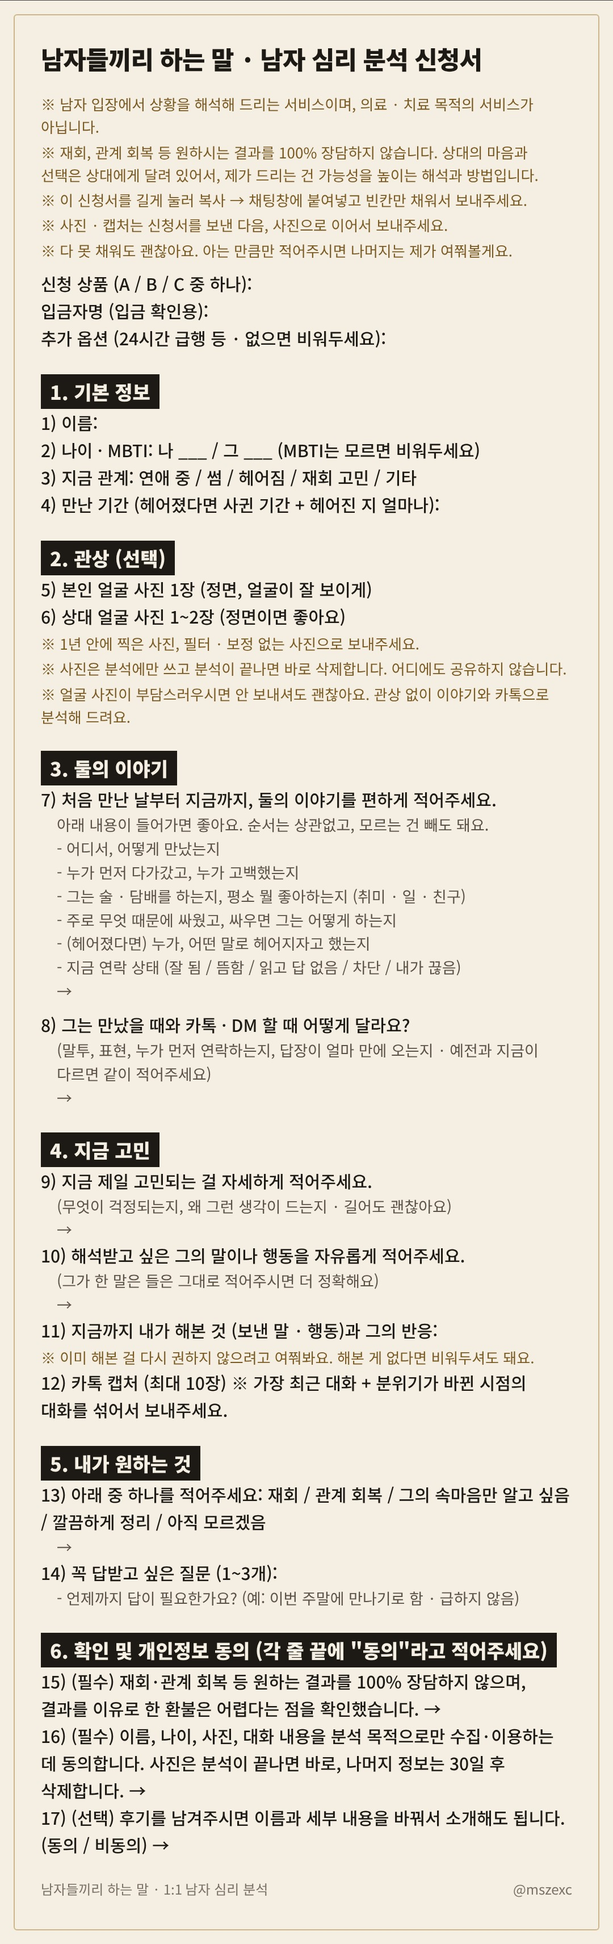
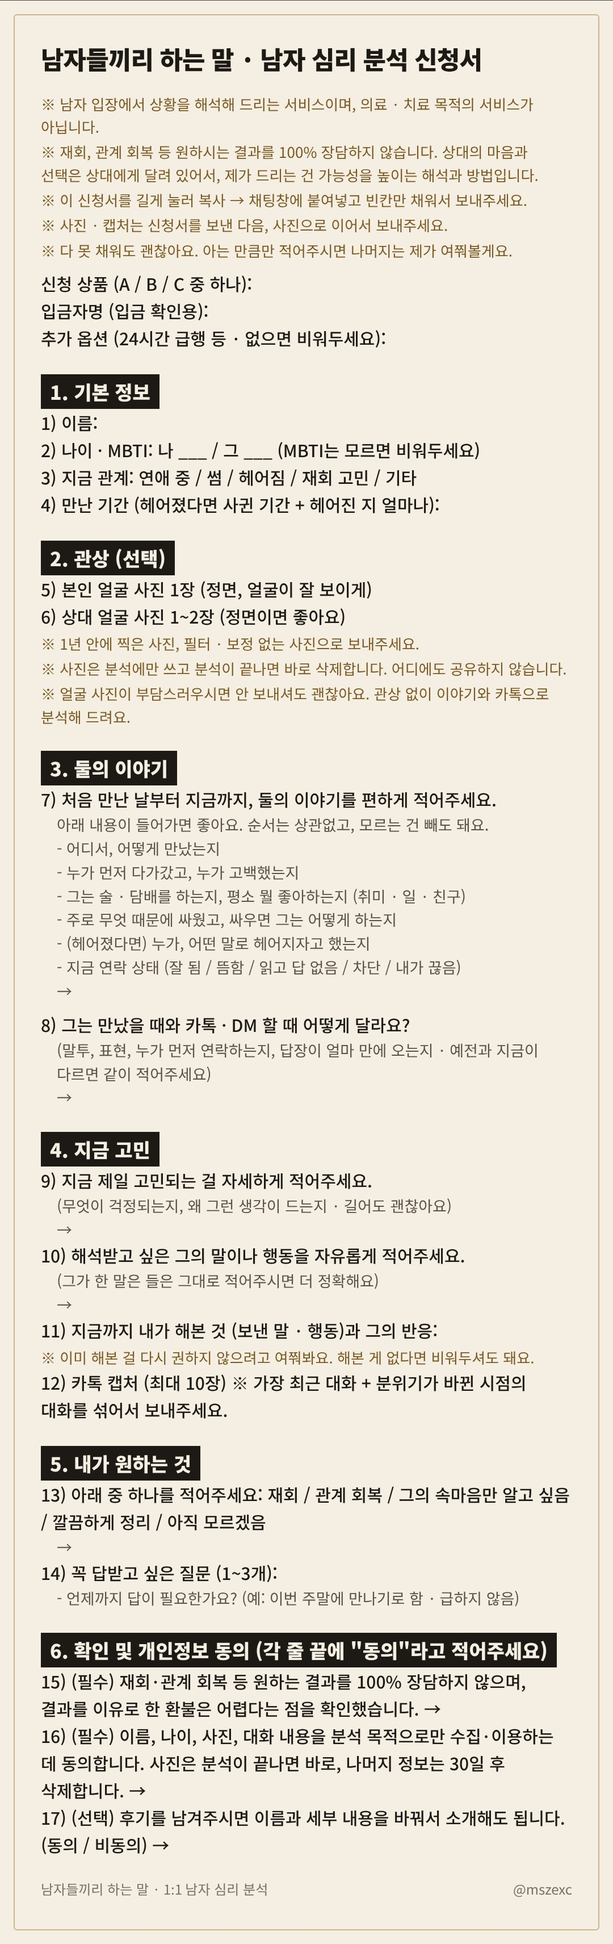
Consult guide: cleaner line breaks, price lines; phone prices prominent in guide and menu image
Claude-Session: https://claude.ai/code/session_01J9i5yL8MFhQ5W67Sx3nDW6

Changed region(s): [[0.1222, 0.5884, 0.2444, 0.6193], [0.3361, 0.5884, 0.3667, 0.6193]]

diff --git a/consult/kakao_menu/docs.html b/consult/kakao_menu/docs.html
@@ -15,6 +15,9 @@
   .doc:before { content:''; position:absolute; inset:24px; border:2px solid #cdb68a; border-radius:6px; pointer-events:none; }
   .doc .ttl { font-size:44px; font-weight:900; letter-spacing:-0.02em; margin-bottom:10px; }
   .doc .sec { font-size:34px; font-weight:900; margin-top:26px; padding:6px 16px; background:#1d1a16; color:#f4eee3; display:inline-block; }
+  .doc .pri { font-size:34px; font-weight:900; margin-top:10px; color:#151515; background:#ffcb3d; display:table; padding:2px 12px; }
+  .doc .pri + .pri { margin-left:0; }
+  .doc .hr { height:2px; background:#d9d2c4; margin:26px 0 6px; }
   .doc .ln { font-size:30px; line-height:1.6; font-weight:500; }
   .doc .li { font-size:30px; line-height:1.6; padding-left:28px; position:relative; }
   .doc .li:before { content:''; position:absolute; left:4px; top:20px; width:10px; height:10px; background:#9a6a1f; }
@@ -26,7 +29,7 @@
 <section class="k" id="card_guide"><div class="top">남자가 직접, 그 사람 마음을 번역해 드려요</div><div class="ti">1:1 남자 심리 분석 안내</div><ul><li>오픈가 A 4.9만 · B 9.9만 ★ · C 39만 · 전화 4.9만~</li><li>관상 · 카톡 · 상황을 남자 입장에서</li><li>채팅으로 &quot;A · B · C 신청&quot; → 계좌이체</li></ul><div class="ft"><span>남자들끼리 하는 말 · 1:1 남자 심리 분석</span><span>@mszexc</span></div></section>
 <section class="k" id="card_form"><div class="top">입금 확인 후 보내드려요</div><div class="ti">신청서 · 이것만 준비하세요</div><ul><li>얼굴 사진 (나 1장 · 그 1~2장 · 부담되면 생략 OK)</li><li>둘의 이야기 + 그의 카톡 · 만날 때 모습</li><li>카톡 캡처 10장 · 꼭 답받고 싶은 질문</li></ul><div class="ft"><span>남자들끼리 하는 말 · 1:1 남자 심리 분석</span><span>@mszexc</span></div></section>
 <section class="k" id="card_report"><div class="top">72시간 안에 서면으로</div><div class="ti">결과물은 이렇게 드려요</div><ul><li>A · 성향 / 말 번역 / 마음 단계 / 갈등 이유</li><li>B · A + 상황별 대본 4종 + 피드백 2회</li><li>C · B + 4주 점검 · 첨삭 주 3건 · 정리 리포트</li></ul><div class="ft"><span>남자들끼리 하는 말 · 1:1 남자 심리 분석</span><span>@mszexc</span></div></section>
-<section class="doc" id="doc_guide"><div class="ttl">남자들끼리 하는 말 · 남자 심리 분석</div><div class="sp"></div><div class="ln">그 사람이 왜 그러는지, 이제 뭐라고 보내야 하는지.</div><div class="ln">남자가 직접, 그 사람의 마음을 번역해 드립니다.</div><div class="ln">관상 · 카톡 · 상황을 함께 보고, 남자 입장에서 답을 드려요.</div><div class="sp"></div><div class="sec">A. 남자 심리 분석 · 49,000원 (정가 69,000원 · 12/31까지 오픈가)</div><div class="ln">그가 왜 그러는지 알고 싶은 분</div><div class="li">질문지 + 카톡 캡처 10장 + 관상</div><div class="li">서면 분석 리포트 (그의 성향 / 말 번역 / 지금 마음 단계 / 갈등의 진짜 이유)</div><div class="li">추가 질문 1회 · 72시간 안에 전달</div><div class="sp"></div><div class="sec">B. 심리 분석 + 마음을 움직이는 대본 · 99,000원 (정가 129,000원 · 12/31까지 오픈가)  ★추천</div><div class="ln">&quot;그래서 뭐라고 보내야 해?&quot;까지 알고 싶은 분</div><div class="li">A의 모든 내용</div><div class="li">상황별 대본 4종 (첫 연락 / 답장 왔을 때 / 만났을 때 / 반응 없을 때)</div><div class="li">7일 안 피드백 2회 (1회 = 메시지 1개 + 캡처 3장)</div><div class="sp"></div><div class="sec">C. 재회·관계 회복 4주 플랜 · 390,000원 (정가 490,000원 · 12/31까지 오픈가)  (월 3명 한정)</div><div class="ln">끝까지 같이 가고 싶은 분</div><div class="li">B의 모든 내용</div><div class="li">4주 동안 주 1회 점검 + 다음 대본</div><div class="li">보내기 전 카톡 첨삭 주 3건 · 4주 뒤 정리 리포트</div><div class="sp"></div><div class="sec">T. 전화 분석 (예약제 · 주 5건)</div><div class="ln">글보다 목소리로, 지금 바로 묻고 싶은 분</div><div class="li">30분 · 정가 59,000원 → 49,000원 (12/31까지 오픈가)</div><div class="ln">지금 상황 하나 + 보낼 말 1개</div><div class="li">60분 · 정가 99,000원 → 89,000원 (12/31까지 오픈가)</div><div class="ln">상황 전체 + 그의 성향 · 마음 단계 + 보낼 말 3개</div><div class="li">통화 전: 사전 질문지 + 카톡 캡처 5장을 미리 보내주세요</div><div class="li">통화 뒤: 핵심 요약 3줄을 카톡으로 드려요 (녹음은 서로 하지 않아요)</div><div class="sp"></div><div class="sec">추가 옵션 (신청자 전용)</div><div class="li">카톡 첨삭 1건 20,000원 · 3건 묶음 50,000원</div><div class="li">추가 질문 1회 20,000원</div><div class="li">24시간 급행 +30,000원 (하루 1건)</div><div class="li">답장 왔을 때 긴급 첨삭 (6시간 안) 30,000원 (하루 1건)</div><div class="note">※ 기한은 채팅 가능 시간 안에서 세요. 급행은 신청서 · 사진 · 캡처가 다 도착한 때부터 24시간이에요.</div><div class="sp"></div><div class="sec">혜택</div><div class="li">오픈 첫 주 (11/8까지): B를 신청하신 첫 10분께 카톡 첨삭 2건을 함께 드려요.</div><div class="li">다시 신청하실 때: 결과물을 받고 30일 안에 다시 신청하시면 추가 질문 1회를 드려요.</div><div class="sp"></div><div class="sec">가격이 고민되신다면</div><div class="ln">월급 250만 원 기준으로 B(오픈가 9.9만 원)는 한 달 월급의 4%예요.</div><div class="ln">하루로 나누면 3,300원, 커피 한 잔 값이에요.</div><div class="sp"></div><div class="ln">이미 불안해서 여기까지 오셨잖아요.</div><div class="ln">돈 몇 푼 아끼다 그 사람과의 관계를 더 어렵게 만들 건지,</div><div class="ln">그 4%로 그의 마음을 읽고 다음 한 수를 준비할 건지.</div><div class="sp"></div><div class="ln">제가 드리는 건 남자를 이해하는 눈이에요.</div><div class="ln">남자를 알면, 그 사람을 대하는 게 훨씬 쉬워져요.</div><div class="ln">결과를 100% 장담할 수는 없지만, 관계가 좋아질 가능성은 분명히 높일 수 있어요.</div><div class="sp"></div><div class="ln">선택은 당신의 몫이에요.</div><div class="sp"></div><div class="sec">신청 방법 (3분이면 끝나요)</div><div class="ln">1) 채팅으로 &quot;B 신청&quot; · &quot;전화 30분 신청&quot;처럼 상품만 남겨주세요</div><div class="ln">2) 바로 입금 안내를 드려요 (계좌이체만 받아요 · 카드 결제는 안 돼요)</div><div class="ln">3) 입금되면 신청서를 보내드려요 → 채워서 사진 · 캡처와 보내주시면 분석 시작</div><div class="ln">4) 다 도착한 때부터 72시간 안에 결과물을 드려요</div><div class="sp"></div><div class="note">※ 남자 입장에서 상황을 해석해 드리는 서비스이며, 의료 · 치료 목적의 서비스가 아닙니다.</div><div class="note">※ 결과를 100% 장담하지는 않아요. 그의 선택은 그에게 달려 있어서, 제가 드리는 건 가능성을 높이는 해석과 방법이에요.</div><div class="note">※ 분석 시작 전에는 전액 환불, 시작 후에는 (결과를 이유로 한 경우도) 환불이 어려워요.</div><div class="note">※ 전화 분석: 일정 변경은 24시간 전까지 1회 · 연락 없이 불참하시면 환불이 어려워요 · 늦으시면 남은 시간만 진행해요.</div><div class="ft2"><span>남자들끼리 하는 말 · 1:1 남자 심리 분석</span><span>@mszexc</span></div></section>
+<section class="doc" id="doc_guide"><div class="ttl">남자들끼리 하는 말 · 남자 심리 분석</div><div class="sp"></div><div class="ln">그 사람이 왜 그러는지,</div><div class="ln">이제 뭐라고 보내야 하는지.</div><div class="sp"></div><div class="ln">남자가 직접, 그 사람의 마음을 번역해 드립니다.</div><div class="ln">관상 · 카톡 · 상황을 함께 보고,</div><div class="ln">남자 입장에서 답을 드려요.</div><div class="sp"></div><div class="pri">12/31까지 오픈가 · 1/1부터 정가</div><div class="sp"></div><div class="hr"></div><div class="sp"></div><div class="sec">A. 남자 심리 분석</div><div class="pri">49,000원 (정가 69,000원)</div><div class="ln">그가 왜 그러는지 알고 싶은 분</div><div class="li">질문지 + 카톡 캡처 10장 + 관상</div><div class="li">서면 분석 리포트</div><div class="sub">그의 성향 / 말 번역 / 지금 마음 단계 / 갈등의 진짜 이유</div><div class="li">추가 질문 1회</div><div class="li">72시간 안에 전달</div><div class="sp"></div><div class="sec">B. 심리 분석 + 마음을 움직이는 대본 ★추천</div><div class="pri">99,000원 (정가 129,000원)</div><div class="ln">&quot;그래서 뭐라고 보내야 해?&quot;까지 알고 싶은 분</div><div class="li">A의 모든 내용</div><div class="li">상황별 대본 4종</div><div class="sub">첫 연락 / 답장 왔을 때 / 만났을 때 / 반응 없을 때</div><div class="li">7일 안 피드백 2회</div><div class="sub">1회 = 메시지 1개 + 캡처 3장</div><div class="sp"></div><div class="sec">C. 재회 · 관계 회복 4주 플랜 (월 3명 한정)</div><div class="pri">390,000원 (정가 490,000원)</div><div class="ln">끝까지 같이 가고 싶은 분</div><div class="li">B의 모든 내용</div><div class="li">4주 동안 주 1회 점검 + 다음 대본</div><div class="li">보내기 전 카톡 첨삭 주 3건</div><div class="li">4주 뒤 정리 리포트</div><div class="sp"></div><div class="sec">T. 전화 분석 (예약제 · 주 5건)</div><div class="pri">30분 49,000원 (정가 59,000원)</div><div class="pri">60분 89,000원 (정가 99,000원)</div><div class="ln">글보다 목소리로, 지금 바로 묻고 싶은 분</div><div class="li">30분: 지금 상황 하나 + 보낼 말 1개</div><div class="li">60분: 상황 전체 + 그의 성향 · 마음 단계 + 보낼 말 3개</div><div class="li">통화 전: 사전 질문지 + 카톡 캡처 5장</div><div class="li">통화 뒤: 핵심 요약 3줄을 카톡으로</div><div class="sub">(녹음은 서로 하지 않아요)</div><div class="sp"></div><div class="hr"></div><div class="sp"></div><div class="sec">추가 옵션 (신청자 전용)</div><div class="li">카톡 첨삭 1건 20,000원</div><div class="li">카톡 첨삭 3건 묶음 50,000원</div><div class="li">추가 질문 1회 20,000원</div><div class="li">24시간 급행 +30,000원 (하루 1건)</div><div class="li">답장 왔을 때 긴급 첨삭 30,000원</div><div class="sub">6시간 안 · 하루 1건</div><div class="note">※ 기한은 채팅 가능 시간 안에서 세요.</div><div class="note">※ 급행은 신청서 · 사진 · 캡처가 다 도착한 때부터 24시간이에요.</div><div class="sp"></div><div class="sec">혜택</div><div class="li">B를 신청하신 선착순 10분께 카톡 첨삭 2건을 함께 드려요.</div><div class="li">다시 신청하실 때: 결과물을 받고 30일 안에 다시 신청하시면 추가 질문 1회를 드려요.</div><div class="sp"></div><div class="sec">가격이 고민되신다면</div><div class="ln">월급 250만 원 기준으로 B(오픈가 9.9만 원)는 한 달 월급의 4%예요.</div><div class="ln">하루로 나누면 3,300원, 커피 한 잔 값이에요.</div><div class="sp"></div><div class="ln">이미 불안해서 여기까지 오셨잖아요.</div><div class="ln">돈 몇 푼 아끼다 그 사람과의 관계를 더 어렵게 만들 건지,</div><div class="ln">그 4%로 그의 마음을 읽고 다음 한 수를 준비할 건지.</div><div class="sp"></div><div class="ln">제가 드리는 건 남자를 이해하는 눈이에요.</div><div class="ln">남자를 알면, 그 사람을 대하는 게 훨씬 쉬워져요.</div><div class="ln">결과를 100% 장담할 수는 없지만, 관계가 좋아질 가능성은 분명히 높일 수 있어요.</div><div class="sp"></div><div class="ln">선택은 당신의 몫이에요.</div><div class="sp"></div><div class="sec">신청 방법 (3분이면 끝나요)</div><div class="ln">1) 채팅으로 상품만 남겨주세요</div><div class="sub">예: &quot;B 신청&quot; · &quot;전화 30분 신청&quot;</div><div class="ln">2) 바로 입금 안내를 드려요</div><div class="sub">계좌이체만 받아요 (카드 결제는 안 돼요)</div><div class="ln">3) 입금되면 신청서를 보내드려요</div><div class="sub">채워서 사진 · 캡처와 함께 보내주시면 분석 시작</div><div class="ln">4) 다 도착한 때부터 72시간 안에 결과물을 드려요</div><div class="sub">(전화 분석은 예약한 시간에 제가 먼저 전화드려요)</div><div class="sp"></div><div class="note">※ 남자 입장에서 상황을 해석해 드리는 서비스이며, 의료 · 치료 목적의 서비스가 아닙니다.</div><div class="note">※ 결과를 100% 장담하지는 않아요.</div><div class="sub">그의 선택은 그에게 달려 있어서, 제가 드리는 건 가능성을 높이는 해석과 방법이에요.</div><div class="note">※ 분석 시작 전에는 전액 환불, 시작 후에는 환불이 어려워요.</div><div class="sub">(결과를 이유로 한 경우도 같아요)</div><div class="note">※ 전화 분석</div><div class="sub">일정 변경은 24시간 전까지 1회</div><div class="sub">연락 없이 불참하시면 환불이 어려워요</div><div class="sub">늦으시면 남은 시간만 진행해요</div><div class="ft2"><span>남자들끼리 하는 말 · 1:1 남자 심리 분석</span><span>@mszexc</span></div></section>
 <section class="doc" id="doc_form"><div class="ttl">남자들끼리 하는 말 · 남자 심리 분석 신청서</div><div class="sp"></div><div class="note">※ 남자 입장에서 상황을 해석해 드리는 서비스이며, 의료 · 치료 목적의 서비스가 아닙니다.</div><div class="note">※ 재회, 관계 회복 등 원하시는 결과를 100% 장담하지 않습니다. 상대의 마음과 선택은 상대에게 달려 있어서, 제가 드리는 건 가능성을 높이는 해석과 방법입니다.</div><div class="note">※ 이 신청서를 길게 눌러 복사 → 채팅창에 붙여넣고 빈칸만 채워서 보내주세요.</div><div class="note">※ 사진 · 캡처는 신청서를 보낸 다음, 사진으로 이어서 보내주세요.</div><div class="note">※ 다 못 채워도 괜찮아요. 아는 만큼만 적어주시면 나머지는 제가 여쭤볼게요.</div><div class="sp"></div><div class="ln">신청 상품 (A / B / C 중 하나):</div><div class="ln">입금자명 (입금 확인용):</div><div class="ln">추가 옵션 (24시간 급행 등 · 없으면 비워두세요):</div><div class="sp"></div><div class="sec">1. 기본 정보</div><div class="ln">1) 이름:</div><div class="ln">2) 나이 · MBTI: 나 ___ / 그 ___ (MBTI는 모르면 비워두세요)</div><div class="ln">3) 지금 관계: 연애 중 / 썸 / 헤어짐 / 재회 고민 / 기타</div><div class="ln">4) 만난 기간 (헤어졌다면 사귄 기간 + 헤어진 지 얼마나):</div><div class="sp"></div><div class="sec">2. 관상 (선택)</div><div class="ln">5) 본인 얼굴 사진 1장 (정면, 얼굴이 잘 보이게)</div><div class="ln">6) 상대 얼굴 사진 1~2장 (정면이면 좋아요)</div><div class="note">※ 1년 안에 찍은 사진, 필터 · 보정 없는 사진으로 보내주세요.</div><div class="note">※ 사진은 분석에만 쓰고 분석이 끝나면 바로 삭제합니다. 어디에도 공유하지 않습니다.</div><div class="note">※ 얼굴 사진이 부담스러우시면 안 보내셔도 괜찮아요. 관상 없이 이야기와 카톡으로 분석해 드려요.</div><div class="sp"></div><div class="sec">3. 둘의 이야기</div><div class="ln">7) 처음 만난 날부터 지금까지, 둘의 이야기를 편하게 적어주세요.</div><div class="sub">아래 내용이 들어가면 좋아요. 순서는 상관없고, 모르는 건 빼도 돼요.</div><div class="sub">- 어디서, 어떻게 만났는지</div><div class="sub">- 누가 먼저 다가갔고, 누가 고백했는지</div><div class="sub">- 그는 술 · 담배를 하는지, 평소 뭘 좋아하는지 (취미 · 일 · 친구)</div><div class="sub">- 주로 무엇 때문에 싸웠고, 싸우면 그는 어떻게 하는지</div><div class="sub">- (헤어졌다면) 누가, 어떤 말로 헤어지자고 했는지</div><div class="sub">- 지금 연락 상태 (잘 됨 / 뜸함 / 읽고 답 없음 / 차단 / 내가 끊음)</div><div class="sub">→</div><div class="sp"></div><div class="ln">8) 그는 만났을 때와 카톡 · DM 할 때 어떻게 달라요?</div><div class="sub">(말투, 표현, 누가 먼저 연락하는지, 답장이 얼마 만에 오는지 · 예전과 지금이 다르면 같이 적어주세요)</div><div class="sub">→</div><div class="sp"></div><div class="sec">4. 지금 고민</div><div class="ln">9) 지금 제일 고민되는 걸 자세하게 적어주세요.</div><div class="sub">(무엇이 걱정되는지, 왜 그런 생각이 드는지 · 길어도 괜찮아요)</div><div class="sub">→</div><div class="ln">10) 해석받고 싶은 그의 말이나 행동을 자유롭게 적어주세요.</div><div class="sub">(그가 한 말은 들은 그대로 적어주시면 더 정확해요)</div><div class="sub">→</div><div class="ln">11) 지금까지 내가 해본 것 (보낸 말 · 행동)과 그의 반응:</div><div class="note">※ 이미 해본 걸 다시 권하지 않으려고 여쭤봐요. 해본 게 없다면 비워두셔도 돼요.</div><div class="ln">12) 카톡 캡처 (최대 10장) ※ 가장 최근 대화 + 분위기가 바뀐 시점의 대화를 섞어서 보내주세요.</div><div class="sp"></div><div class="sec">5. 내가 원하는 것</div><div class="ln">13) 아래 중 하나를 적어주세요: 재회 / 관계 회복 / 그의 속마음만 알고 싶음 / 깔끔하게 정리 / 아직 모르겠음</div><div class="sub">→</div><div class="ln">14) 꼭 답받고 싶은 질문 (1~3개):</div><div class="sub">- 언제까지 답이 필요한가요? (예: 이번 주말에 만나기로 함 · 급하지 않음)</div><div class="sp"></div><div class="sec">6. 확인 및 개인정보 동의 (각 줄 끝에 &quot;동의&quot;라고 적어주세요)</div><div class="ln">15) (필수) 재회·관계 회복 등 원하는 결과를 100% 장담하지 않으며, 결과를 이유로 한 환불은 어렵다는 점을 확인했습니다. →</div><div class="ln">16) (필수) 이름, 나이, 사진, 대화 내용을 분석 목적으로만 수집·이용하는 데 동의합니다. 사진은 분석이 끝나면 바로, 나머지 정보는 30일 후 삭제합니다. →</div><div class="ln">17) (선택) 후기를 남겨주시면 이름과 세부 내용을 바꿔서 소개해도 됩니다. (동의 / 비동의) →</div><div class="ft2"><span>남자들끼리 하는 말 · 1:1 남자 심리 분석</span><span>@mszexc</span></div></section>
 <section class="doc" id="doc_report"><div class="ttl">결과물은 이렇게 드려요</div><div class="sp"></div><div class="sec">A · 남자 심리 분석 리포트</div><div class="ln">1. 관상으로 본 그의 연애 성향</div><div class="ln">2. 그의 말 · 행동 번역 (신청서 10번)</div><div class="ln">3. 지금 그의 마음 단계 (지친 중 / 흔들리는 중 / 정리하는 중)</div><div class="ln">4. 갈등이 반복되는 진짜 이유</div><div class="ln">5. 꼭 답받고 싶은 질문에 대한 답</div><div class="sp"></div><div class="sec">B · A + 마음을 움직이는 대본 4종</div><div class="ln">1. 첫 연락: 첫 문장, 보낼 시간대</div><div class="ln">2. 답장이 왔을 때: 반응별로 이어갈 말</div><div class="ln">3. 만났을 때·통화할 때: 꺼낼 말, 피할 말</div><div class="ln">4. 반응이 없거나 거절당했을 때: 멈출 타이밍과 마지막 한 줄</div><div class="ln">→ 7일 안에 반응을 보내주면 다음 한 수 (2회)</div><div class="sp"></div><div class="ln">대본은 이런 식이에요 (예시)</div><div class="ln">✕ &quot;우리 얘기 좀 해. 언제까지 이럴 건데?&quot;</div><div class="ln">○ &quot;그날 내가 좀 날카로웠던 것 같아. 생각나서 연락했어. 편할 때 답해줘.&quot;</div><div class="ln">→ 왜 이 말이 통하는지, 언제 보내야 하는지까지 같이 드려요.</div><div class="sp"></div><div class="sec">C · 4주 플랜</div><div class="ln">1주차: B 전체 + 연락 타이밍 설계</div><div class="ln">2~4주차: 주 1회 점검 → 다음 대본 / 카톡 첨삭 주 3건</div><div class="ln">4주 뒤: 정리 리포트 (무엇이 바뀌었고, 다음은 무엇인지)</div><div class="ft2"><span>남자들끼리 하는 말 · 1:1 남자 심리 분석</span><span>@mszexc</span></div></section>
 </body></html>

diff --git a/consult/kakao_menu/km.html b/consult/kakao_menu/km.html
@@ -10,6 +10,12 @@
   .pr { position:absolute; right:44px; top:52px; background:#ffcb3d; color:#151515; font-weight:900; font-size:34px; padding:4px 16px; }
   .was { position:absolute; right:46px; top:24px; font-size:20px; color:#a9a39a; } .was s { color:#c9c3b9; }
   .till { position:absolute; right:46px; top:104px; font-size:18px; font-weight:700; color:#ffcb3d; }
+  .prs { position:absolute; right:44px; top:34px; display:grid; gap:8px; justify-items:end; }
+  .pr2 { display:flex; align-items:center; gap:10px; }
+  .pr2 .lb { font-size:24px; font-weight:900; color:#f4f1ea; }
+  .pr2 .w2 { font-size:17px; color:#a9a39a; }
+  .pr2 b { background:#ffcb3d; color:#151515; font-weight:900; font-size:32px; padding:2px 12px; }
+  .till2 { font-size:18px; font-weight:700; color:#ffcb3d; }
   .rec { position:absolute; right:46px; top:132px; font-size:20px; font-weight:900; color:#ffcb3d; letter-spacing:.1em; }
   ul { list-style:none; margin-top:26px; }
   li { font-size:27px; font-weight:500; line-height:1.5; padding-left:26px; position:relative; color:#e6e1d8; }
@@ -19,7 +25,7 @@
 <section class="k" id="m1"><div class="top">그가 왜 그러는지 알고 싶을 때</div><div class="ti">A. 남자 심리 분석</div><div class="was">정가 <s>69,000원</s></div><div class="pr">49,000원</div><div class="till">12/31까지 오픈가</div><ul><li>관상 · 카톡 10장 · 상황을 남자 입장에서</li><li>그의 성향 / 말 번역 / 지금 마음 단계</li><li>서면 리포트 · 72시간 안 · 추가 질문 1회</li></ul><div class="ft"><span>남자들끼리 하는 말 · 1:1 남자 심리 분석</span><span>@mszexc</span></div></section>
 <section class="k" id="m2"><div class="top">그래서 뭐라고 보내야 해?</div><div class="ti">B. 분석 + 대본</div><div class="was">정가 <s>129,000원</s></div><div class="pr">99,000원</div><div class="till">12/31까지 오픈가</div><div class="rec">★ 추천</div><ul><li>A의 모든 내용</li><li>상황별 대본 4종 · 보낼 시간 · 피할 말</li><li>7일 안 피드백 2회 · 주 5건</li></ul><div class="ft"><span>남자들끼리 하는 말 · 1:1 남자 심리 분석</span><span>@mszexc</span></div></section>
 <section class="k" id="m3"><div class="top">재회 · 관계 회복, 끝까지 같이</div><div class="ti">C. 4주 플랜</div><div class="was">정가 <s>490,000원</s></div><div class="pr">390,000원</div><div class="till">12/31까지 오픈가</div><ul><li>B의 모든 내용</li><li>4주 동안 주 1회 점검 + 다음 대본</li><li>보내기 전 카톡 첨삭 주 3건 · 월 3명</li></ul><div class="ft"><span>남자들끼리 하는 말 · 1:1 남자 심리 분석</span><span>@mszexc</span></div></section>
-<section class="k" id="m7"><div class="top">글보다 목소리로, 지금 바로</div><div class="ti">T. 전화 분석</div><div class="was">정가 <s>59,000원</s></div><div class="pr">49,000원</div><div class="till">12/31까지 오픈가</div><ul><li>30분: 지금 상황 하나 + 보낼 말 1개</li><li>60분 89,000원 (정가 99,000원): 상황 전체 + 보낼 말 3개</li><li>예약제 · 통화 뒤 요약 3줄 · 주 5건</li></ul><div class="ft"><span>남자들끼리 하는 말 · 1:1 남자 심리 분석</span><span>@mszexc</span></div></section>
+<section class="k" id="m7"><div class="top">글보다 목소리로, 지금 바로</div><div class="ti">T. 전화 분석</div><div class="prs"><div class="pr2"><span class="lb">30분</span><span class="w2">정가 <s>59,000원</s></span><b>49,000원</b></div><div class="pr2"><span class="lb">60분</span><span class="w2">정가 <s>99,000원</s></span><b>89,000원</b></div><div class="till2">12/31까지 오픈가</div></div><ul><li>30분: 지금 상황 하나 + 보낼 말 1개</li><li>60분: 상황 전체 + 보낼 말 3개</li><li>예약제 · 통화 뒤 요약 3줄 · 주 5건</li></ul><div class="ft"><span>남자들끼리 하는 말 · 1:1 남자 심리 분석</span><span>@mszexc</span></div></section>
 <section class="k" id="m4"><div class="top">분석을 받으신 분만</div><div class="ti">추가 옵션</div><ul><li>카톡 첨삭 1건 2만 · 3건 묶음 5만</li><li>추가 질문 1회 2만 · 24시간 급행 +3만</li><li>답장 왔을 때 긴급 첨삭(6시간) 3만</li></ul><div class="ft"><span>남자들끼리 하는 말 · 1:1 남자 심리 분석</span><span>@mszexc</span></div></section>
 <section class="k" id="m5"><div class="top">3단계면 끝나요</div><div class="ti">신청 방법</div><ul><li>① 채팅으로 &quot;A · B · C 신청&quot;</li><li>② 입금 확인 → 신청서 보내드려요</li><li>③ 신청서 + 사진 + 캡처 → 분석 시작</li></ul><div class="ft"><span>남자들끼리 하는 말 · 1:1 남자 심리 분석</span><span>@mszexc</span></div></section>
 <section class="k" id="m6"><div class="top">신청 전에 한 번만</div><div class="ti">꼭 읽어주세요</div><ul><li>남자 입장에서 해석해 드리는 서비스</li><li>결과를 100% 장담하지 않아요</li><li>시작 전 전액 환불 · 시작 후 불가</li></ul><div class="ft"><span>남자들끼리 하는 말 · 1:1 남자 심리 분석</span><span>@mszexc</span></div></section>

diff --git a/consult/kakao_menu/km_one.html b/consult/kakao_menu/km_one.html
@@ -10,6 +10,12 @@
   .pr { position:absolute; right:44px; top:52px; background:#ffcb3d; color:#151515; font-weight:900; font-size:34px; padding:4px 16px; }
   .was { position:absolute; right:46px; top:24px; font-size:20px; color:#a9a39a; } .was s { color:#c9c3b9; }
   .till { position:absolute; right:46px; top:104px; font-size:18px; font-weight:700; color:#ffcb3d; }
+  .prs { position:absolute; right:44px; top:34px; display:grid; gap:8px; justify-items:end; }
+  .pr2 { display:flex; align-items:center; gap:10px; }
+  .pr2 .lb { font-size:24px; font-weight:900; color:#f4f1ea; }
+  .pr2 .w2 { font-size:17px; color:#a9a39a; }
+  .pr2 b { background:#ffcb3d; color:#151515; font-weight:900; font-size:32px; padding:2px 12px; }
+  .till2 { font-size:18px; font-weight:700; color:#ffcb3d; }
   .rec { position:absolute; right:46px; top:132px; font-size:20px; font-weight:900; color:#ffcb3d; letter-spacing:.1em; }
   ul { list-style:none; margin-top:26px; }
   li { font-size:27px; font-weight:500; line-height:1.5; padding-left:26px; position:relative; color:#e6e1d8; }

diff --git a/consult/menu.py b/consult/menu.py
@@ -33,46 +33,67 @@ NOTES = [
 ]
 GUIDE = '''[남자들끼리 하는 말 · 남자 심리 분석]
 
-그 사람이 왜 그러는지, 이제 뭐라고 보내야 하는지.
-남자가 직접, 그 사람의 마음을 번역해 드립니다.
-관상 · 카톡 · 상황을 함께 보고, 남자 입장에서 답을 드려요.
+그 사람이 왜 그러는지,
+이제 뭐라고 보내야 하는지.
 
-■ A. 남자 심리 분석 · 49,000원 (정가 69,000원 · 12/31까지 오픈가)
+남자가 직접, 그 사람의 마음을 번역해 드립니다.
+관상 · 카톡 · 상황을 함께 보고,
+남자 입장에서 답을 드려요.
+
+💰 12/31까지 오픈가 · 1/1부터 정가
+
+━━━━━━━━━━━━━━
+
+■ A. 남자 심리 분석
+💰 49,000원 (정가 69,000원)
 그가 왜 그러는지 알고 싶은 분
 - 질문지 + 카톡 캡처 10장 + 관상
-- 서면 분석 리포트 (그의 성향 / 말 번역 / 지금 마음 단계 / 갈등의 진짜 이유)
-- 추가 질문 1회 · 72시간 안에 전달
+- 서면 분석 리포트
+   그의 성향 / 말 번역 / 지금 마음 단계 / 갈등의 진짜 이유
+- 추가 질문 1회
+- 72시간 안에 전달
 
-■ B. 심리 분석 + 마음을 움직이는 대본 · 99,000원 (정가 129,000원 · 12/31까지 오픈가)  ★추천
+■ B. 심리 분석 + 마음을 움직이는 대본 ★추천
+💰 99,000원 (정가 129,000원)
 "그래서 뭐라고 보내야 해?"까지 알고 싶은 분
 - A의 모든 내용
-- 상황별 대본 4종 (첫 연락 / 답장 왔을 때 / 만났을 때 / 반응 없을 때)
-- 7일 안 피드백 2회 (1회 = 메시지 1개 + 캡처 3장)
+- 상황별 대본 4종
+   첫 연락 / 답장 왔을 때 / 만났을 때 / 반응 없을 때
+- 7일 안 피드백 2회
+   1회 = 메시지 1개 + 캡처 3장
 
-■ C. 재회·관계 회복 4주 플랜 · 390,000원 (정가 490,000원 · 12/31까지 오픈가)  (월 3명 한정)
+■ C. 재회 · 관계 회복 4주 플랜 (월 3명 한정)
+💰 390,000원 (정가 490,000원)
 끝까지 같이 가고 싶은 분
 - B의 모든 내용
 - 4주 동안 주 1회 점검 + 다음 대본
-- 보내기 전 카톡 첨삭 주 3건 · 4주 뒤 정리 리포트
+- 보내기 전 카톡 첨삭 주 3건
+- 4주 뒤 정리 리포트
 
 ■ T. 전화 분석 (예약제 · 주 5건)
+💰 30분 49,000원 (정가 59,000원)
+💰 60분 89,000원 (정가 99,000원)
 글보다 목소리로, 지금 바로 묻고 싶은 분
-- 30분 · 정가 59,000원 → 49,000원 (12/31까지 오픈가)
-  지금 상황 하나 + 보낼 말 1개
-- 60분 · 정가 99,000원 → 89,000원 (12/31까지 오픈가)
-  상황 전체 + 그의 성향 · 마음 단계 + 보낼 말 3개
-- 통화 전: 사전 질문지 + 카톡 캡처 5장을 미리 보내주세요
-- 통화 뒤: 핵심 요약 3줄을 카톡으로 드려요 (녹음은 서로 하지 않아요)
+- 30분: 지금 상황 하나 + 보낼 말 1개
+- 60분: 상황 전체 + 그의 성향 · 마음 단계 + 보낼 말 3개
+- 통화 전: 사전 질문지 + 카톡 캡처 5장
+- 통화 뒤: 핵심 요약 3줄을 카톡으로
+   (녹음은 서로 하지 않아요)
+
+━━━━━━━━━━━━━━
 
 ■ 추가 옵션 (신청자 전용)
-- 카톡 첨삭 1건 20,000원 · 3건 묶음 50,000원
+- 카톡 첨삭 1건 20,000원
+- 카톡 첨삭 3건 묶음 50,000원
 - 추가 질문 1회 20,000원
 - 24시간 급행 +30,000원 (하루 1건)
-- 답장 왔을 때 긴급 첨삭 (6시간 안) 30,000원 (하루 1건)
-※ 기한은 채팅 가능 시간 안에서 세요. 급행은 신청서 · 사진 · 캡처가 다 도착한 때부터 24시간이에요.
+- 답장 왔을 때 긴급 첨삭 30,000원
+   6시간 안 · 하루 1건
+※ 기한은 채팅 가능 시간 안에서 세요.
+※ 급행은 신청서 · 사진 · 캡처가 다 도착한 때부터 24시간이에요.
 
 ■ 혜택
-- 오픈 첫 주 (11/8까지): B를 신청하신 첫 10분께 카톡 첨삭 2건을 함께 드려요.
+- B를 신청하신 선착순 10분께 카톡 첨삭 2건을 함께 드려요.
 - 다시 신청하실 때: 결과물을 받고 30일 안에 다시 신청하시면 추가 질문 1회를 드려요.
 
 ■ 가격이 고민되신다면
@@ -90,15 +111,24 @@ GUIDE = '''[남자들끼리 하는 말 · 남자 심리 분석]
 선택은 당신의 몫이에요.
 
 ■ 신청 방법 (3분이면 끝나요)
-1) 채팅으로 "B 신청" · "전화 30분 신청"처럼 상품만 남겨주세요
-2) 바로 입금 안내를 드려요 (계좌이체만 받아요 · 카드 결제는 안 돼요)
-3) 입금되면 신청서를 보내드려요 → 채워서 사진 · 캡처와 보내주시면 분석 시작
+1) 채팅으로 상품만 남겨주세요
+   예: "B 신청" · "전화 30분 신청"
+2) 바로 입금 안내를 드려요
+   계좌이체만 받아요 (카드 결제는 안 돼요)
+3) 입금되면 신청서를 보내드려요
+   채워서 사진 · 캡처와 함께 보내주시면 분석 시작
 4) 다 도착한 때부터 72시간 안에 결과물을 드려요
+   (전화 분석은 예약한 시간에 제가 먼저 전화드려요)
 
 ※ 남자 입장에서 상황을 해석해 드리는 서비스이며, 전문 심리상담이 아닙니다.
-※ 결과를 100% 장담하지는 않아요. 그의 선택은 그에게 달려 있어서, 제가 드리는 건 가능성을 높이는 해석과 방법이에요.
-※ 분석 시작 전에는 전액 환불, 시작 후에는 (결과를 이유로 한 경우도) 환불이 어려워요.
-※ 전화 분석: 일정 변경은 24시간 전까지 1회 · 연락 없이 불참하시면 환불이 어려워요 · 늦으시면 남은 시간만 진행해요.'''
+※ 결과를 100% 장담하지는 않아요.
+   그의 선택은 그에게 달려 있어서, 제가 드리는 건 가능성을 높이는 해석과 방법이에요.
+※ 분석 시작 전에는 전액 환불, 시작 후에는 환불이 어려워요.
+   (결과를 이유로 한 경우도 같아요)
+※ 전화 분석
+   일정 변경은 24시간 전까지 1회
+   연락 없이 불참하시면 환불이 어려워요
+   늦으시면 남은 시간만 진행해요'''
 FORM = '''[남자들끼리 하는 말 · 남자 심리 분석 신청서]
 
 ※ 남자 입장에서 상황을 해석해 드리는 서비스이며, 의료 · 치료 목적의 서비스가 아닙니다.

diff --git a/consult/kakao_menu.py b/consult/kakao_menu.py
@@ -45,17 +45,23 @@ MENU = [
 
 신청은 채팅으로 "C 신청"이라고 남겨주세요.
 먼저 상황을 짧게 들려주시면 C가 맞는지부터 말씀드릴게요.''', '없음'),
- ('m7', 'T. 전화 분석 · 4.9만~', ('글보다 목소리로, 지금 바로', 'T. 전화 분석', '59,000원|49,000원',
-   ['30분: 지금 상황 하나 + 보낼 말 1개', '60분 89,000원 (정가 99,000원): 상황 전체 + 보낼 말 3개', '예약제 · 통화 뒤 요약 3줄 · 주 5건']),
+ ('m7', 'T. 전화 분석 · 4.9만~', ('글보다 목소리로, 지금 바로', 'T. 전화 분석', '30분:59,000원|49,000원;60분:99,000원|89,000원',
+   ['30분: 지금 상황 하나 + 보낼 말 1개', '60분: 상황 전체 + 보낼 말 3개', '예약제 · 통화 뒤 요약 3줄 · 주 5건']),
   '''T. 전화 분석 (예약제 · 주 5건)
-30분 49,000원 (정가 59,000원) · 60분 89,000원 (정가 99,000원) · 12/31까지 오픈가
+
+💰 30분 49,000원 (정가 59,000원)
+💰 60분 89,000원 (정가 99,000원)
+12/31까지 오픈가
 
 · 30분: 지금 상황 하나 + 보낼 말 1개
 · 60분: 상황 전체 + 그의 성향 · 마음 단계 + 보낼 말 3개
-· 통화 전 사전 질문지 + 카톡 캡처 5장
-· 통화 뒤 핵심 요약 3줄을 카톡으로 (녹음은 서로 안 해요)
+· 통화 전: 사전 질문지 + 카톡 캡처 5장
+· 통화 뒤: 핵심 요약 3줄을 카톡으로
+  (녹음은 서로 하지 않아요)
 
-일정 변경은 24시간 전까지 1회 · 연락 없이 불참하면 환불이 어려워요.
+일정 변경은 24시간 전까지 1회
+연락 없이 불참하면 환불이 어려워요
+
 신청은 채팅으로 "전화 신청"이라고 남겨주세요.''', '없음'),
  ('m4', '추가 옵션', ('분석을 받으신 분만', '추가 옵션', '',
    ['카톡 첨삭 1건 2만 · 3건 묶음 5만', '추가 질문 1회 2만 · 24시간 급행 +3만', '답장 왔을 때 긴급 첨삭(6시간) 3만']),
@@ -100,6 +106,12 @@ CSS = '''<!doctype html><html lang="ko"><head><meta charset="utf-8">
   .pr { position:absolute; right:44px; top:52px; background:#ffcb3d; color:#151515; font-weight:900; font-size:34px; padding:4px 16px; }
   .was { position:absolute; right:46px; top:24px; font-size:20px; color:#a9a39a; } .was s { color:#c9c3b9; }
   .till { position:absolute; right:46px; top:104px; font-size:18px; font-weight:700; color:#ffcb3d; }
+  .prs { position:absolute; right:44px; top:34px; display:grid; gap:8px; justify-items:end; }
+  .pr2 { display:flex; align-items:center; gap:10px; }
+  .pr2 .lb { font-size:24px; font-weight:900; color:#f4f1ea; }
+  .pr2 .w2 { font-size:17px; color:#a9a39a; }
+  .pr2 b { background:#ffcb3d; color:#151515; font-weight:900; font-size:32px; padding:2px 12px; }
+  .till2 { font-size:18px; font-weight:700; color:#ffcb3d; }
   .rec { position:absolute; right:46px; top:132px; font-size:20px; font-weight:900; color:#ffcb3d; letter-spacing:.1em; }
   ul { list-style:none; margin-top:26px; }
   li { font-size:27px; font-weight:500; line-height:1.5; padding-left:26px; position:relative; color:#e6e1d8; }
@@ -112,7 +124,11 @@ def build():
     out = CSS
     for key, name, (top, ti, pr, items), msg, btn in MENU:
         rec = '<div class="rec">★ 추천</div>' if key == 'm2' else ''
-        if '|' in pr:
+        if ';' in pr:  # 시간별 가격 여러 줄 (전화 분석)
+            rows = ''.join(f'<div class="pr2"><span class="lb">{e(lb)}</span><span class="w2">정가 <s>{e(w)}</s></span><b>{e(n)}</b></div>'
+                           for lb, wn in (x.split(':') for x in pr.split(';')) for w, n in [wn.split('|')])
+            prh = f'<div class="prs">{rows}<div class="till2">12/31까지 오픈가</div></div>'
+        elif '|' in pr:
             was, now = pr.split('|'); prh = f'<div class="was">정가 <s>{e(was)}</s></div><div class="pr">{e(now)}</div><div class="till">12/31까지 오픈가</div>'
         else:
             prh = f'<div class="pr">{e(pr)}</div>' if pr else ''

diff --git a/consult/kakao_docs.py b/consult/kakao_docs.py
@@ -19,6 +19,8 @@ def lines_html(text):
         t = e(s.strip())
         if s.startswith('[') and s.endswith(']'): out.append(f'<div class="ttl">{e(s[1:-1])}</div>')
         elif s.startswith('■'): out.append(f'<div class="sec">{e(s[1:].strip())}</div>')
+        elif s.startswith('💰'): out.append(f'<div class="pri">{e(s[1:].strip())}</div>')
+        elif s.startswith('━'): out.append('<div class="hr"></div>')
         elif s.lstrip().startswith('※'): out.append(f'<div class="note">{t}</div>')
         elif s.startswith('   '): out.append(f'<div class="sub">{t}</div>')
         elif s.lstrip().startswith('- '): out.append(f'<div class="li">{e(s.strip()[2:])}</div>')
@@ -85,6 +87,9 @@ CSS = '''<!doctype html><html lang="ko"><head><meta charset="utf-8">
   .doc:before { content:''; position:absolute; inset:24px; border:2px solid #cdb68a; border-radius:6px; pointer-events:none; }
   .doc .ttl { font-size:44px; font-weight:900; letter-spacing:-0.02em; margin-bottom:10px; }
   .doc .sec { font-size:34px; font-weight:900; margin-top:26px; padding:6px 16px; background:#1d1a16; color:#f4eee3; display:inline-block; }
+  .doc .pri { font-size:34px; font-weight:900; margin-top:10px; color:#151515; background:#ffcb3d; display:table; padding:2px 12px; }
+  .doc .pri + .pri { margin-left:0; }
+  .doc .hr { height:2px; background:#d9d2c4; margin:26px 0 6px; }
   .doc .ln { font-size:30px; line-height:1.6; font-weight:500; }
   .doc .li { font-size:30px; line-height:1.6; padding-left:28px; position:relative; }
   .doc .li:before { content:''; position:absolute; left:4px; top:20px; width:10px; height:10px; background:#9a6a1f; }

diff --git a/consult/menu.md b/consult/menu.md
@@ -56,46 +56,67 @@
 ```
 [남자들끼리 하는 말 · 남자 심리 분석]
 
-그 사람이 왜 그러는지, 이제 뭐라고 보내야 하는지.
-남자가 직접, 그 사람의 마음을 번역해 드립니다.
-관상 · 카톡 · 상황을 함께 보고, 남자 입장에서 답을 드려요.
+그 사람이 왜 그러는지,
+이제 뭐라고 보내야 하는지.
 
-■ A. 남자 심리 분석 · 49,000원 (정가 69,000원 · 12/31까지 오픈가)
+남자가 직접, 그 사람의 마음을 번역해 드립니다.
+관상 · 카톡 · 상황을 함께 보고,
+남자 입장에서 답을 드려요.
+
+💰 12/31까지 오픈가 · 1/1부터 정가
+
+━━━━━━━━━━━━━━
+
+■ A. 남자 심리 분석
+💰 49,000원 (정가 69,000원)
 그가 왜 그러는지 알고 싶은 분
 - 질문지 + 카톡 캡처 10장 + 관상
-- 서면 분석 리포트 (그의 성향 / 말 번역 / 지금 마음 단계 / 갈등의 진짜 이유)
-- 추가 질문 1회 · 72시간 안에 전달
+- 서면 분석 리포트
+   그의 성향 / 말 번역 / 지금 마음 단계 / 갈등의 진짜 이유
+- 추가 질문 1회
+- 72시간 안에 전달
 
-■ B. 심리 분석 + 마음을 움직이는 대본 · 99,000원 (정가 129,000원 · 12/31까지 오픈가)  ★추천
+■ B. 심리 분석 + 마음을 움직이는 대본 ★추천
+💰 99,000원 (정가 129,000원)
 "그래서 뭐라고 보내야 해?"까지 알고 싶은 분
 - A의 모든 내용
-- 상황별 대본 4종 (첫 연락 / 답장 왔을 때 / 만났을 때 / 반응 없을 때)
-- 7일 안 피드백 2회 (1회 = 메시지 1개 + 캡처 3장)
+- 상황별 대본 4종
+   첫 연락 / 답장 왔을 때 / 만났을 때 / 반응 없을 때
+- 7일 안 피드백 2회
+   1회 = 메시지 1개 + 캡처 3장
 
-■ C. 재회·관계 회복 4주 플랜 · 390,000원 (정가 490,000원 · 12/31까지 오픈가)  (월 3명 한정)
+■ C. 재회 · 관계 회복 4주 플랜 (월 3명 한정)
+💰 390,000원 (정가 490,000원)
 끝까지 같이 가고 싶은 분
 - B의 모든 내용
 - 4주 동안 주 1회 점검 + 다음 대본
-- 보내기 전 카톡 첨삭 주 3건 · 4주 뒤 정리 리포트
+- 보내기 전 카톡 첨삭 주 3건
+- 4주 뒤 정리 리포트
 
 ■ T. 전화 분석 (예약제 · 주 5건)
+💰 30분 49,000원 (정가 59,000원)
+💰 60분 89,000원 (정가 99,000원)
 글보다 목소리로, 지금 바로 묻고 싶은 분
-- 30분 · 정가 59,000원 → 49,000원 (12/31까지 오픈가)
-  지금 상황 하나 + 보낼 말 1개
-- 60분 · 정가 99,000원 → 89,000원 (12/31까지 오픈가)
-  상황 전체 + 그의 성향 · 마음 단계 + 보낼 말 3개
-- 통화 전: 사전 질문지 + 카톡 캡처 5장을 미리 보내주세요
-- 통화 뒤: 핵심 요약 3줄을 카톡으로 드려요 (녹음은 서로 하지 않아요)
+- 30분: 지금 상황 하나 + 보낼 말 1개
+- 60분: 상황 전체 + 그의 성향 · 마음 단계 + 보낼 말 3개
+- 통화 전: 사전 질문지 + 카톡 캡처 5장
+- 통화 뒤: 핵심 요약 3줄을 카톡으로
+   (녹음은 서로 하지 않아요)
+
+━━━━━━━━━━━━━━
 
 ■ 추가 옵션 (신청자 전용)
-- 카톡 첨삭 1건 20,000원 · 3건 묶음 50,000원
+- 카톡 첨삭 1건 20,000원
+- 카톡 첨삭 3건 묶음 50,000원
 - 추가 질문 1회 20,000원
 - 24시간 급행 +30,000원 (하루 1건)
-- 답장 왔을 때 긴급 첨삭 (6시간 안) 30,000원 (하루 1건)
-※ 기한은 채팅 가능 시간 안에서 세요. 급행은 신청서 · 사진 · 캡처가 다 도착한 때부터 24시간이에요.
+- 답장 왔을 때 긴급 첨삭 30,000원
+   6시간 안 · 하루 1건
+※ 기한은 채팅 가능 시간 안에서 세요.
+※ 급행은 신청서 · 사진 · 캡처가 다 도착한 때부터 24시간이에요.
 
 ■ 혜택
-- 오픈 첫 주 (11/8까지): B를 신청하신 첫 10분께 카톡 첨삭 2건을 함께 드려요.
+- B를 신청하신 선착순 10분께 카톡 첨삭 2건을 함께 드려요.
 - 다시 신청하실 때: 결과물을 받고 30일 안에 다시 신청하시면 추가 질문 1회를 드려요.
 
 ■ 가격이 고민되신다면
@@ -113,15 +134,24 @@
 선택은 당신의 몫이에요.
 
 ■ 신청 방법 (3분이면 끝나요)
-1) 채팅으로 "B 신청" · "전화 30분 신청"처럼 상품만 남겨주세요
-2) 바로 입금 안내를 드려요 (계좌이체만 받아요 · 카드 결제는 안 돼요)
-3) 입금되면 신청서를 보내드려요 → 채워서 사진 · 캡처와 보내주시면 분석 시작
+1) 채팅으로 상품만 남겨주세요
+   예: "B 신청" · "전화 30분 신청"
+2) 바로 입금 안내를 드려요
+   계좌이체만 받아요 (카드 결제는 안 돼요)
+3) 입금되면 신청서를 보내드려요
+   채워서 사진 · 캡처와 함께 보내주시면 분석 시작
 4) 다 도착한 때부터 72시간 안에 결과물을 드려요
+   (전화 분석은 예약한 시간에 제가 먼저 전화드려요)
 
 ※ 남자 입장에서 상황을 해석해 드리는 서비스이며, 전문 심리상담이 아닙니다.
-※ 결과를 100% 장담하지는 않아요. 그의 선택은 그에게 달려 있어서, 제가 드리는 건 가능성을 높이는 해석과 방법이에요.
-※ 분석 시작 전에는 전액 환불, 시작 후에는 (결과를 이유로 한 경우도) 환불이 어려워요.
-※ 전화 분석: 일정 변경은 24시간 전까지 1회 · 연락 없이 불참하시면 환불이 어려워요 · 늦으시면 남은 시간만 진행해요.
+※ 결과를 100% 장담하지는 않아요.
+   그의 선택은 그에게 달려 있어서, 제가 드리는 건 가능성을 높이는 해석과 방법이에요.
+※ 분석 시작 전에는 전액 환불, 시작 후에는 환불이 어려워요.
+   (결과를 이유로 한 경우도 같아요)
+※ 전화 분석
+   일정 변경은 24시간 전까지 1회
+   연락 없이 불참하시면 환불이 어려워요
+   늦으시면 남은 시간만 진행해요
 ```
 
 ## 신청서
